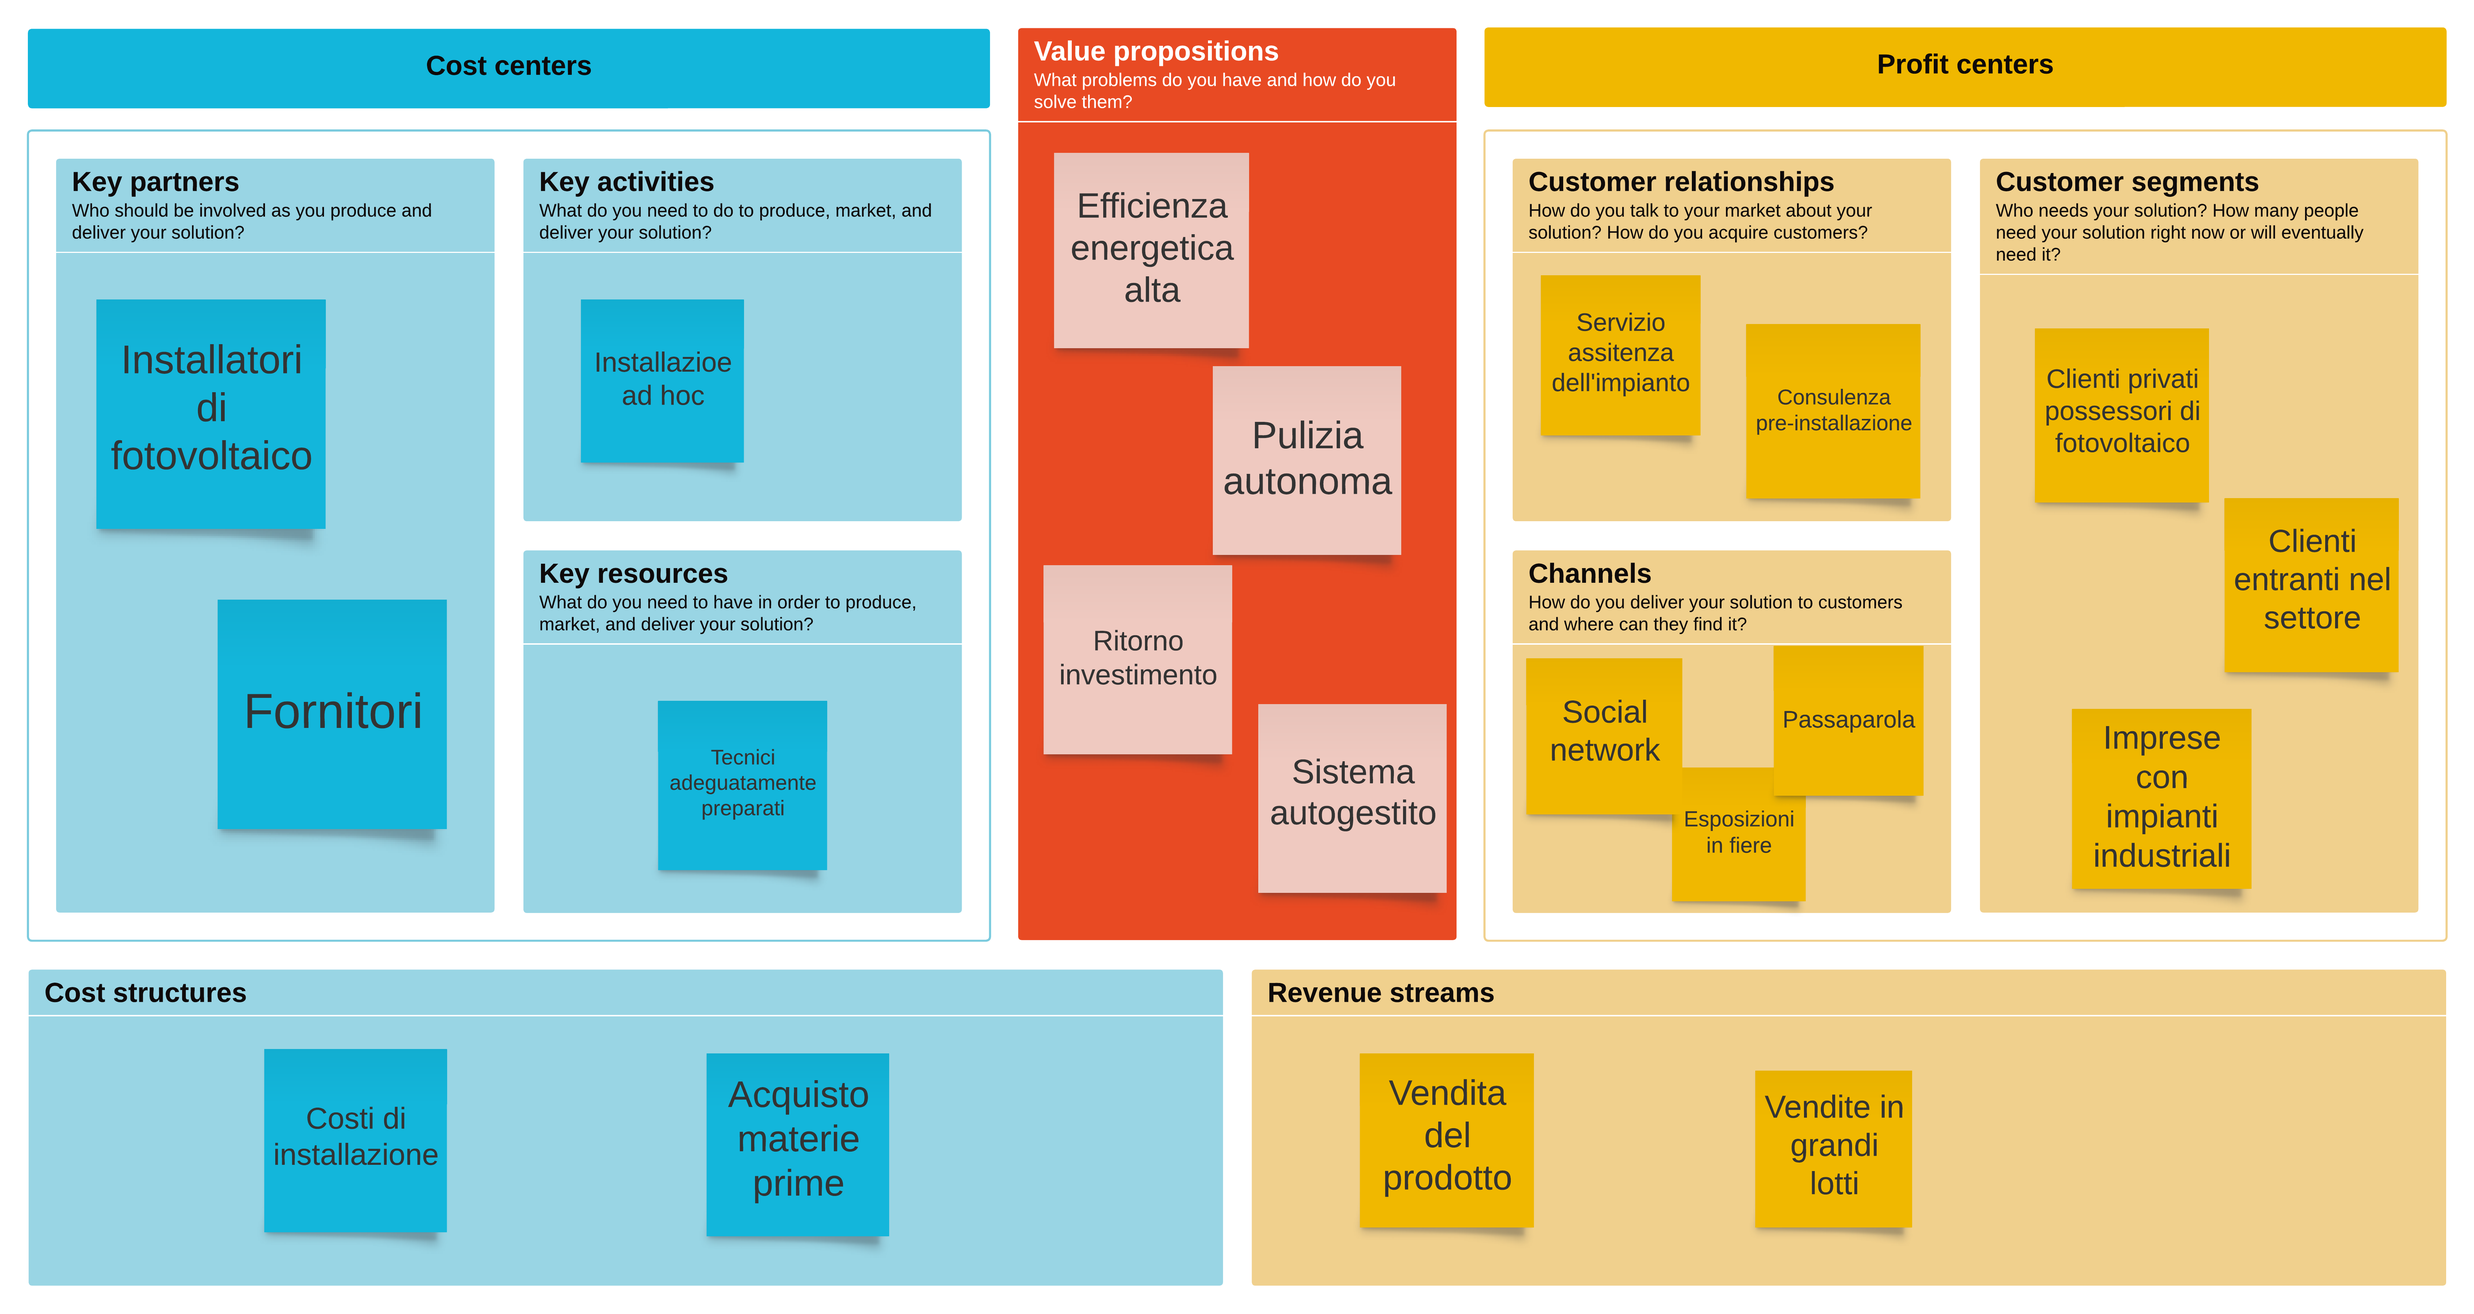
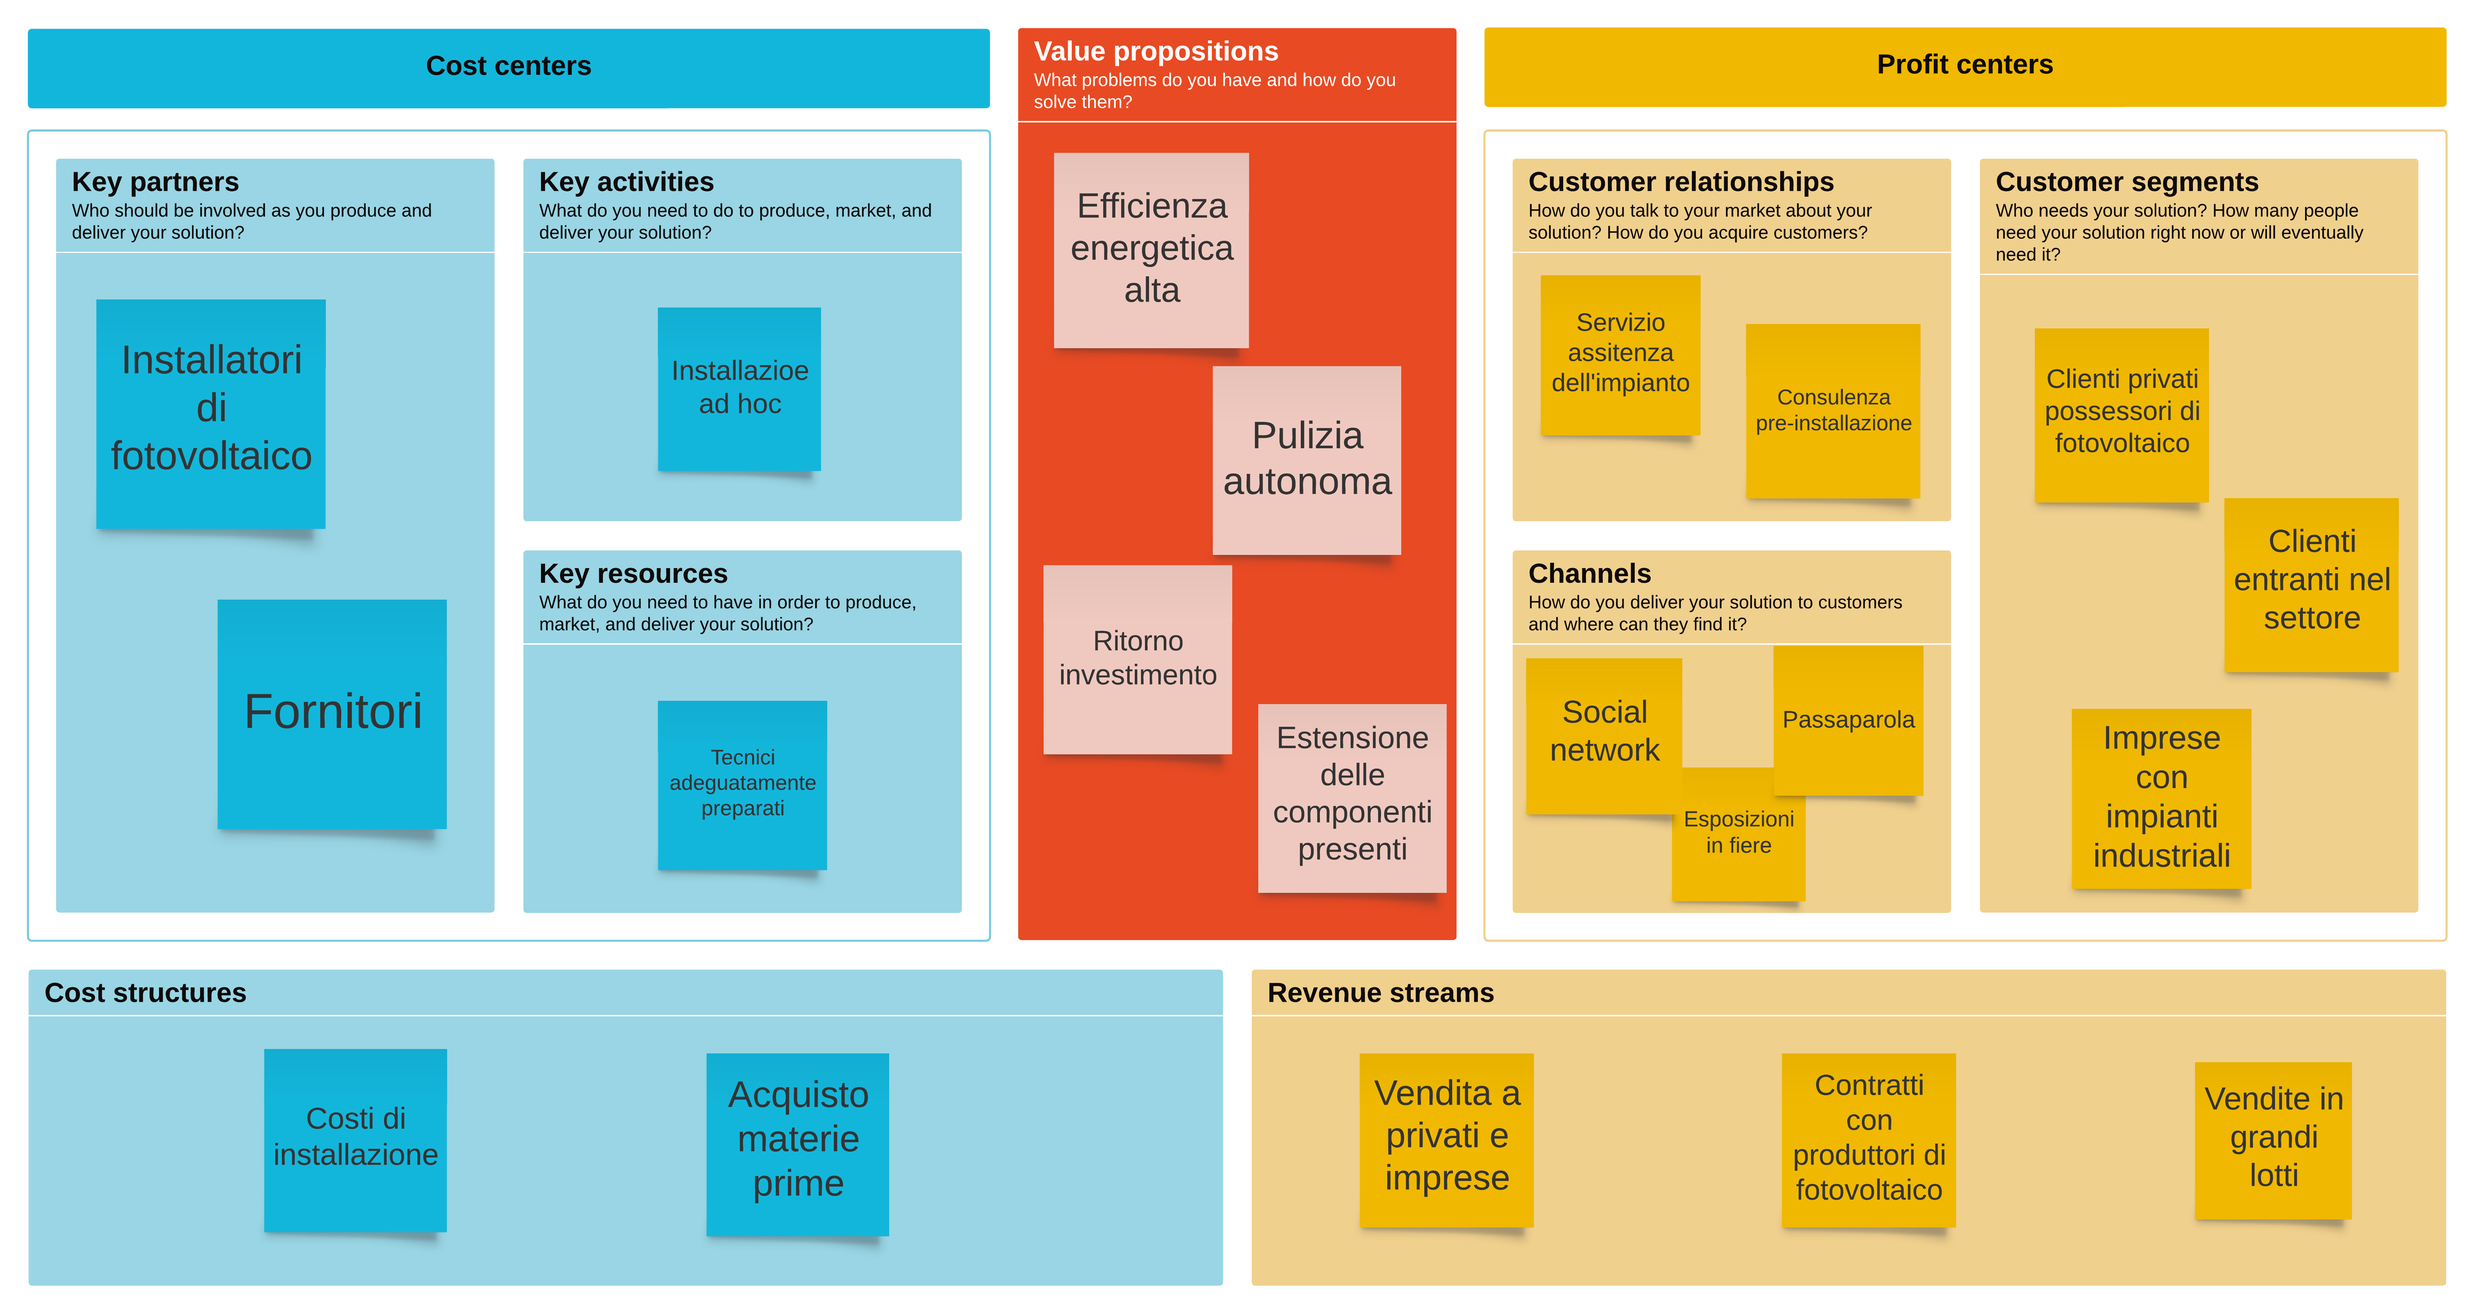
Add files via upload

diff --git a/Report/Report.tex b/Report/Report.tex
@@ -45,7 +45,8 @@
 		{\large \emph{Cleaning efficiency}}\\
 		\vspace{2cm}
 		A cura di:\\
-		Stefano Hu, Matteo Longhi, Luca Lombardi, Cristina Napoli, Nicola Paoluzzi, Zakaria Traka
+		\vspace{0.3cm}
+		Stefano Hu, Luca Lombardi, Matteo Longhi,\\ Cristina Napoli, Nicola Paoluzzi, Zakaria Traka
 	\end{center}
 	\newpage
 	
@@ -55,11 +56,14 @@
 	\newpage
 	
 	\section{Executive Summary} %provo a dire 4 cagate però non sono certa di cosa inserire effettivamente
-	Il progetto si propone di automatizzare la pulizia dei pannelli fotovoltaici.\\
-	Tramite il monitoraggio dell'efficienza del pannello il sistema si rende conto di quando è necessaria la pulizia, e insieme all'apposito macchinario connesso alla rete idraulica si occupa della pulizia dello stesso, rendendo più semplice e meno stancante per l'utilizzatore il processo di pulizia.\\\\
-	Inoltre il nostro prodotto rende anche più abbordabile l'idea di installare dei pannelli fotovoltaici nelle proprie strutture, in quanto il nostro prodotto risulta più economico di altre soluzioni attualmente esistenti, e data l'espansione del mercato fotovoltaico, e per il calo dei prezzi di installazione degli impianti negli ultimi anni, la nostra soluzione risulta accattivante sia per nuovi utenti che per utilizzatori di vecchia data, perché il nostro componente si va ad aggiungere a impianti già esistenti e ne migliora le prestazioni. \\
-	
-	
+	\textbf{Il problema}\\\\
+	\textbf{La soluzione}\\
+	\emph{Osmos} si propone di automatizzare la pulizia dei pannelli fotovoltaici.\\
+	Tramite il monitoraggio dell'efficienza del pannello il dispositivo fornito si rende conto di quando è necessaria la pulizia, e insieme all'apposito sistema idraulico si occupa del lavaggio del modulo stesso, rendendo più semplice, meno stancante e più economico per l'utilizzatore il processo di pulizia. Infatti grazie ad un sistema \emph{Osmos}, non sarà più necessario contattare imprese esterne specializzate nel lavaggio.\\
+	%Inoltre il nostro prodotto rende anche più abbordabile l'idea di installare dei pannelli fotovoltaici nelle proprie strutture, in quanto il nostro prodotto risulta più economico di altre soluzioni attualmente esistenti, e data l'espansione del mercato fotovoltaico, e per il calo dei prezzi di installazione degli impianti negli ultimi anni.
+	La soluzione proposta risulta accattivante sia per nuovi utenti che per utilizzatori di vecchia data del fotovoltaico, perché il nostro prodotto si va ad aggiungere a impianti già esistenti cooperandovi per migliorare le prestazioni.\\\\
+	\textbf{Il settore}\\\\
+	\textbf{Il mercato}\\\\
 	\newpage
 	\section{Problema da risolvere}
 	Ai giorni nostri sempre maggiore importanza viene attribuita alle fonti di energia rinnovabili. Tra queste, l'energia solare è particolarmente degna di nota in quanto inesauribile, disponibile in enormi quantità ed utilizzabile per produrre energia elettrica e termica.\\
@@ -105,23 +109,25 @@
 	\begin{center}
 		\includegraphics[width=0.7\textwidth]{Images/suddivisione_settore.png}
 	\end{center}
-	La proposta di \emph{Osmos} è ritenuta interessante per l'attuale situazione del settore, sia perché l'ambito del fotovoltaico si sta ampliando, sia a causa della mancanza di una soluzione a supporto dei moduli fotovoltaici specializzata nella pulizia di questi.\\
+	La proposta di \emph{Osmos} è ritenuta interessante per l'attuale situazione del settore, sia perché l'ambito del fotovoltaico si sta ampliando, sia a causa della mancanza di una soluzione a supporto dei moduli fotovoltaici specializzata nella pulizia di questi, ad esclusione dei pannelli autopulenti già menzionati.\\\\
 	La strategia adottata è riportata di seguito:
 	\begin{center}
-		\includegraphics[width=0.65\textwidth]{Images/SWOT2.png}%\vspace{-2cm}
+		\includegraphics[width=0.65\textwidth]{Images/SWOT2.png}
 	\end{center}
 	Inoltre, si riportano qui gli obiettivi perseguiti da \emph{Osmos} confrontati con quelli dei principali competitor sopra citati:
 	\begin{center}
-		\includegraphics[width=0.8\textwidth]{Images/curve_valore.png}%\vspace{-2cm}
+		\includegraphics[width=0.8\textwidth]{Images/curve_valore.png}
 	\end{center}
+	Tra queste caratteristiche spiccano in particolar modo il funzionamento 24/7 e l'offerta di un prodotto user-friendly. Il nostro prodotto non ha bisogno di essere costantemente in funzione, ma necessita di essere operativo solamente in quei pochi minuti del giorno che comprendono l'analisi delle prestazioni ed eventualmente l'esecuzione della pulizia.\\
+	Per quanto invece riguarda la possibilità di offrire un prodotto user-friendly, questa non è una caratteristica fondamentale per \emph{Osmos}, in quanto alla base del prodotto stesso vi è l'idea di minimizzare l'interazione con l'utente, facendo in modo che il sistemi operi in modo invisibile agli occhi del cliente.
 	\section{Il mercato e il cliente}
-	\begin{figure}[h]
-		\includegraphics[width=0.5\textwidth]{Images/MoSCoW.png}
-	\end{figure}
+	%\begin{figure}[h]
+	%	\includegraphics[width=0.5\textwidth]{Images/MoSCoW.png}
+	%\end{figure}
 	\section{Modello di business}
 	\textbf{Value Proposition}\\
-	L'obiettivo di \emph{Osmos} è fornire e installare sistemi per la pulizia automatica dei moduli fotovoltaici. Questi sistemi sono indirizzati sia agli utenti privati, possessori di impianti domestici, sia verso imprese che possiedono una superficie fotovoltaica notevolmente superiore. I sistemi proposti forniscono ai clienti non solo la possibilità di sfruttare impianti che mantengono un alto livello di efficienza energetica ma anche di risparmiare sul costo della pulizia, dal momento che non ci sarà più la necessità di rivolgersi ad una ditta esterna per eseguirla.\\
-	Così facendo il cliente dovrebbe unicamente occuparsi di rifornirsi di acqua osmotica per riempire il relativo serbatoio con cui poi il sistema effettua la pulizia.\\\\
+	L'obiettivo di \emph{Osmos} è fornire e installare sistemi per la pulizia automatica dei moduli fotovoltaici. Questi sistemi sono indirizzati sia agli utenti privati, possessori di impianti domestici, sia verso imprese che possiedono una superficie fotovoltaica notevolmente superiore. I sistemi proposti forniscono ai clienti non solo la possibilità di sfruttare impianti che mantengono un alto livello di efficienza energetica ma anche di risparmiare sul costo della pulizia, dal momento che non ci sarà più la necessità di rivolgersi ad una ditta esterna per eseguirla. Così facendo il cliente dovrebbe unicamente occuparsi di rifornirsi di acqua osmotica per riempire il relativo serbatoio con cui poi il sistema effettua la pulizia.\\
+	Inoltre \emph{Osmos} risulterà essere una naturale estensione dell'impianto fotovoltaico già installato dato che non entra in conflitto ma coopera con le componenti già presenti.\\\\
 	\textbf{Relazione col cliente}\\
 	Il primo contatto con il cliente può essere stabilito tramite la stessa impresa produttrice e installatrice dell'impianto fotovoltaico che informa della possibile installazione anche di un sistema \emph{Osmos}, oppure tramite spot pubblicitari online attraverso social network e pubblicità mirata. In questo modo diventa possibile intercettare anche consumatori entranti nel settore sempre crescente del fotovoltaico, rendendoli consci del problema fin dal momento dell'acquisto dei pannelli.\\
 	Una volta entrati in contatto con l'acquirente, dopo l'avvenuta installazione si ha l'obiettivo di mantenere il rapporto col cliente tramite la fornitura di un servizio di assistenza disponibile per via telefonica, utilizzabile dall'utente per contattare l'assistenza in caso di malfunzionamenti del sistema o problemi di qualsiasi genere legati ad esso, di modo da poter intervenire tempestivamente.\\\\
@@ -148,30 +154,38 @@
 	\section{Funzionamento del prodotto}
 	%cosa dire:
 	% descrizione introduttiva delle funzionalita offerte dalla soluzione 
-	\emph{Osmos} è un sistema di supporto alla pulizia di un impianto fotovoltaico,
-	esso è composto da un device in grado di monitorare l'efficienza dei pannelli 
-	e un supporto idraulico per il rilascio del detergente sul pannello.\\Di seguito un immagine del prodotto:
+	\emph{Osmos} è un sistema di supporto alla pulizia di un impianto fotovoltaico principalmente composto da un device in grado di monitorare l'efficienza dei pannelli 
+	e un supporto idraulico per il rilascio del detergente sul pannello. \'E inoltre dotato di un recipiente sufficientemente ampio per poter contenere l'acqua osmotica necessaria ad almeno un lavaggio.\\Di seguito un immagine schematica del prodotto:
 	\begin{center}
 		\includegraphics[width=0.5\textwidth]{Images/prototipo.jpg}
 	\end{center}
 	% descrizione del device principale
-	Il device principale si compone di un microcontrollore in grado di monitorare l'efficienza energetica dei pannelli.
-	Ciò viene fatto intercettando tramite rete wireless i report prodotti dagli ottimizzatori installati nell'impianto fotovoltaico. Le informazioni raccolte vengono mantenute all'interno del sistema in modo da mantenere uno storico dello stato recente dell'impanto.
-	Il dispositivo dispone di un display e un'interfaccia a led che mostrano l'efficienza in percentuale dell'impianto.
-	Il sistema avvia la pulizia del pannello quando l'efficienza cala sotto la soglia configurabile dall'utente, 
-	oppure su interazione dell'utente tramite un pulsante posto sul device.
-	Quando viene avviata la procedura di pulizia, il device attiva un sistema idraulico che rilascia l'apposito detergente sul pannello.\\\\
+	Il device principale, che gestisce l'intera logica della pulizia, si compone di un microcontrollore in grado di monitorare l'efficienza energetica dei pannelli. Ciò viene fatto intercettando tramite rete wireless i report prodotti dagli ottimizzatori installati nell'impianto fotovoltaico i quali hanno il compito di monitorare ad intervalli regolari ogni singolo modulo fotovoltaico. Ogniqualvolta questi producono un report, le informazioni raccolte vengono mantenute all'interno del sistema in modo da tener traccia di uno storico dello stato recente dell'impanto.\\
+	Il microcontrollore è alimentato a batteria (facilmente sostituibile esternamente, senza dover entrare in contatto con le componenti elettroniche) ed è accessoriato con un display e un'interfaccia a led che mostrano l'efficienza dell'impianto:
+	\begin{itemize}
+		\item sul display viene riportato il valore percentuale dell'efficienza energetica letta dall'ultimo report;
+		\item l'interfaccia luminosa è invece comporta da 3 led (rosso, giallo e verde) in modo che il led illuminato sia rappresentativo delle condizioni di pulizia dei pannelli.
+	\end{itemize}
+	Si impostano quindi due soglie, configurabili dal cliente, A (consigliata del 90\%) e B (consigliata dell'80\%) tali che:
+	\begin{itemize}
+		\item se il valore dell'efficienza E è superiore alla soglia A ($E \ge A$) allora viene acceso il led verde;
+		\item se il valore dell'efficienza E è compreso tra la soglia B e A ($B \le E < A$) allora viene acceso il led giallo;
+		\item se il valore dell'efficienza E è inferiore alla soglia B ($E < B$) allora viene acceso il led rosso;
+	\end{itemize}
+	L'accensione del led rosso innesca anche l'avvio della pulizia automatica di \emph{Osmos}.\\\\
+	% QUI METTEREI GRAFICO CON ANDAMENTO DELL'EFFICIENZA (a gradini)
+	Sebbene il prodotto sia pensato per una minima interazione col cliente, è comunque reso disponibile un interruttore manuale, attivabile dall'esterno, per innescare il meccanismo di pulizia in qualunque momento.\\
+	All'avvio della procedura di pulizia, il device attiva un sistema idraulico che rilascia l'acqua osmotica sul pannello tramite un getto a media pressione.\\\\
 	% descrizione del sistema idraulico
-	Il supporto idraulico del sistema è composto da una pompa idraulica e un serbatoio contenente il detergente. 
-	Al momento della pulizia la pompa idraulica viene attivata per scaricare tramite un apposito sportello il detergente sulla superficie. Il detergente esausto viene smaltito dal sistema nella rete idraulica dell'edificio.
-	Il sistema prevede un facile accesso al serbatoio in modo da facilitare le operazioni di carico del detergente.
+	Il supporto idraulico del sistema è composto da una pompa idraulica e un serbatoio contenente il detergente. Al momento della pulizia la pompa idraulica viene attivata per scaricare, tramite un apposito sportello, l'acqua osmotica sulla superficie fotovoltaica. Il detergente esausto viene smaltito dal sistema nella rete idraulica dell'edificio.
+	Il sistema prevede un facile accesso al serbatoio in modo da facilitare le operazioni di carico del detergente, in modo che l'utente sia in grado di riempirlo nuovamente in autonomia.
 	% MONSTER ALLERGY MI FAN STARNUTIR
 	% quali tecnologie gia esistenti sfrutta la soluzione
 	\section{WBS e prospetto di Gantt}
-	In precedenza sono stati elencati gli elementi e attività fondamentali per \emph{Osmos}. Questi possono essere pianificati racchiudendoli in 4 macro attività che rappresentano l'intero progetto:
+	In precedenza sono stati elencati gli elementi e attività fondamentali per \emph{Osmos}. Questi possono essere pianificati racchiudendoli in 4 macro attività (\emph{Work Packages})che rappresentano l'intero progetto:
 	\begin{enumerate}
 		\item \textbf{Project management}\\
-			  L'insieme delle attività riguardanti la pianificazione stessa, la gestione delle risorse e lo studio dell'ambito dell'impresa tramite analisi del settore e analisi del mercato. L'output di questo \emph{work package} è un documento contenente tutti i dati necessari e ad ottimizzare il lavoro successivo come adeguate conoscenze del segmento di mercato selezionato oppure lo schedule dei lavori successivi.
+			  L'insieme delle attività riguardanti la pianificazione stessa, la gestione delle risorse e lo studio dell'ambito dell'impresa tramite analisi del settore e analisi del mercato. L'output di questo \emph{work package} è un documento contenente tutti i dati necessari e ad ottimizzare il lavoro successivo, come adeguate conoscenze del segmento di mercato selezionato oppure lo schedule dei lavori successivi.
 		\item \textbf{Prototipazione}\\
 			  Le attività che hanno come output finale la realizzazione di un MVP specifico, da mostrare ad investitori ed \emph{eraly adopters} in grado di rendere l'idea di ciò che sarà il prodotto finale, implementando solo quelle caratteristiche per cui il cliente è disposto a pagare: la gestione automatica della pulizia e il monitoraggio dell'efficienza. L'MVP consentirà di testare e validare le idee del prodotto senza spreco economico e temporale nella realizzazione del prodotto completo.
 		\item \textbf{Produzione}\\
